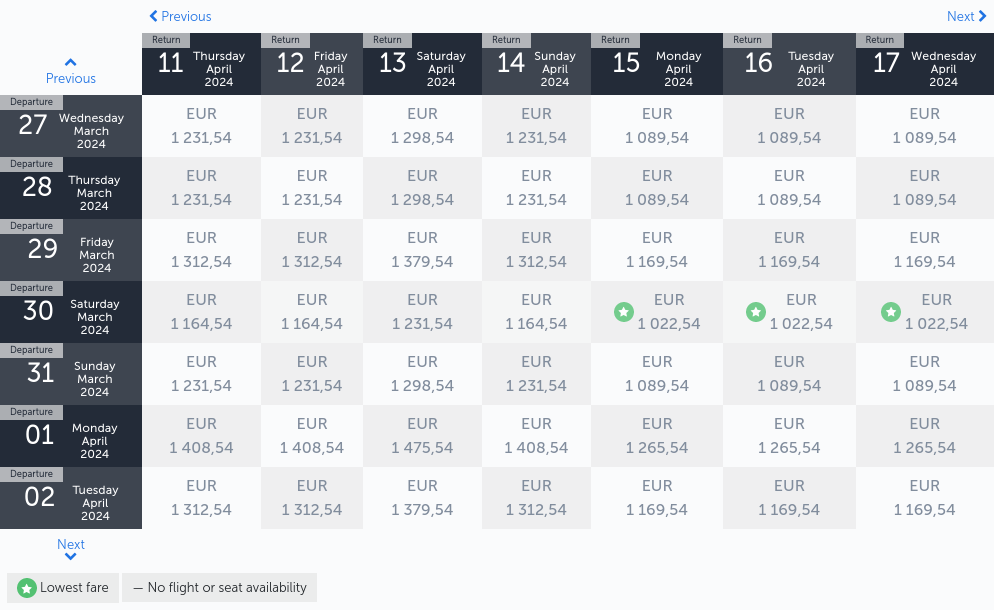
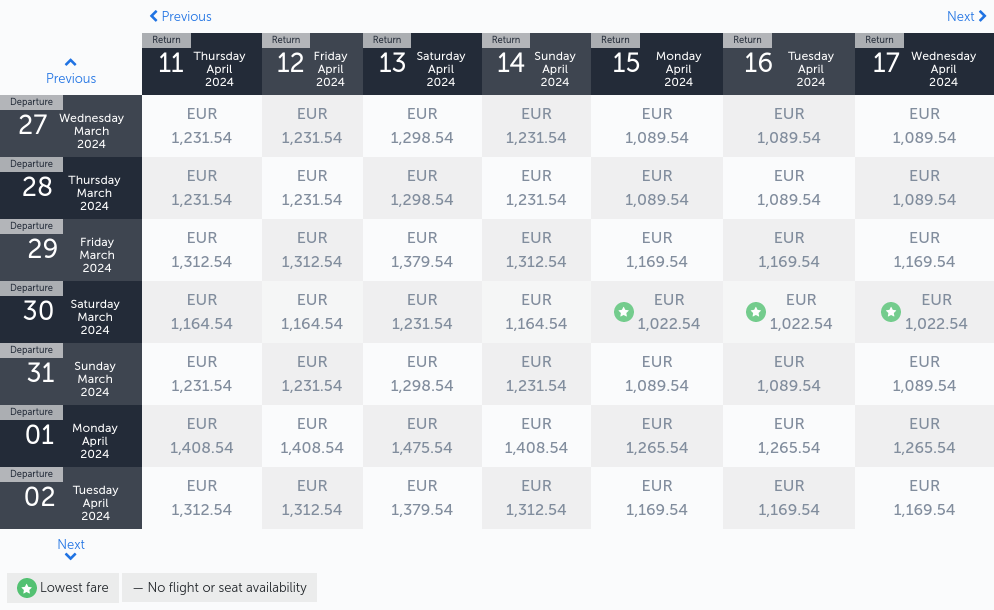
fixing turkish airlines

diff --git a/tests/taiwan.spec.ts b/tests/taiwan.spec.ts
@@ -60,8 +60,13 @@ test('turkish-airlines', async ({ page }) => {
 
     await page.getByRole('button', { name: 'I accept all cookies' }).click();
 
+    await expect(page.locator('#originSelector .port-info')).toHaveText(/\S/, {timeout: 30000});
+    await expect(page.locator('#portInputTo')).toBeFocused();
+
     await page.locator('#portInputFrom').click();
+    await page.locator('#portInputFrom').focus();
     await page.locator('#portInputFrom').clear();
+    
     await expect(page.locator('#originSelector').getByText('See all destinations')).toBeVisible();
     await page.locator('#portInputFrom').type('BRU', {delay: 300});
     await page.locator('#originSelector').getByText('(BRU)').first().click();

diff --git a/scrapes/taiwan/turkish-airlines.md b/scrapes/taiwan/turkish-airlines.md
@@ -2,14 +2,14 @@
 | --- | --- | --- | --- | --- | --- | --- | --- |
 | Previous | Return<br><br>11 Thursday April 2024 | Return<br><br>12 Friday April 2024 | Return<br><br>13 Saturday April 2024 | Return<br><br>14 Sunday April 2024 | Return<br><br>15 Monday April 2024 | Return<br><br>16 Tuesday April 2024 | Return<br><br>17 Wednesday April 2024 |
 | --- | --- | --- | --- | --- | --- | --- | --- |
-| Departure<br><br>27 Wednesday March 2024 | EUR1 231,54 | EUR1 231,54 | EUR1 298,54 | EUR1 231,54 | EUR1 089,54 | EUR1 089,54 | EUR1 089,54 |
-| Departure<br><br>28 Thursday March 2024 | EUR1 231,54 | EUR1 231,54 | EUR1 298,54 | EUR1 231,54 | EUR1 089,54 | EUR1 089,54 | EUR1 089,54 |
-| Departure<br><br>29 Friday March 2024 | EUR1 312,54 | EUR1 312,54 | EUR1 379,54 | EUR1 312,54 | EUR1 169,54 | EUR1 169,54 | EUR1 169,54 |
-| Departure<br><br>30 Saturday March 2024 | EUR1 164,54 | EUR1 164,54 | EUR1 231,54 | EUR1 164,54 | EUR1 022,54 | EUR1 022,54 | EUR1 022,54 |
-| Departure<br><br>31 Sunday March 2024 | EUR1 231,54 | EUR1 231,54 | EUR1 298,54 | EUR1 231,54 | EUR1 089,54 | EUR1 089,54 | EUR1 089,54 |
-| Departure<br><br>01 Monday April 2024 | EUR1 408,54 | EUR1 408,54 | EUR1 475,54 | EUR1 408,54 | EUR1 265,54 | EUR1 265,54 | EUR1 265,54 |
-| Departure<br><br>02 Tuesday April 2024 | EUR1 312,54 | EUR1 312,54 | EUR1 379,54 | EUR1 312,54 | EUR1 169,54 | EUR1 169,54 | EUR1 169,54 |
+| Departure<br><br>27 Wednesday March 2024 | EUR1,231.54 | EUR1,231.54 | EUR1,298.54 | EUR1,231.54 | EUR1,089.54 | EUR1,089.54 | EUR1,089.54 |
+| Departure<br><br>28 Thursday March 2024 | EUR1,231.54 | EUR1,231.54 | EUR1,298.54 | EUR1,231.54 | EUR1,089.54 | EUR1,089.54 | EUR1,089.54 |
+| Departure<br><br>29 Friday March 2024 | EUR1,312.54 | EUR1,312.54 | EUR1,379.54 | EUR1,312.54 | EUR1,169.54 | EUR1,169.54 | EUR1,169.54 |
+| Departure<br><br>30 Saturday March 2024 | EUR1,164.54 | EUR1,164.54 | EUR1,231.54 | EUR1,164.54 | EUR1,022.54 | EUR1,022.54 | EUR1,022.54 |
+| Departure<br><br>31 Sunday March 2024 | EUR1,231.54 | EUR1,231.54 | EUR1,298.54 | EUR1,231.54 | EUR1,089.54 | EUR1,089.54 | EUR1,089.54 |
+| Departure<br><br>01 Monday April 2024 | EUR1,408.54 | EUR1,408.54 | EUR1,475.54 | EUR1,408.54 | EUR1,265.54 | EUR1,265.54 | EUR1,265.54 |
+| Departure<br><br>02 Tuesday April 2024 | EUR1,312.54 | EUR1,312.54 | EUR1,379.54 | EUR1,312.54 | EUR1,169.54 | EUR1,169.54 | EUR1,169.54 |
 | Next |
 | Lowest fare — No flight or seat availability |     |     |     |     |     |     |     |
 
-![](emirates.png)
+![](turkish-airlines.png)
